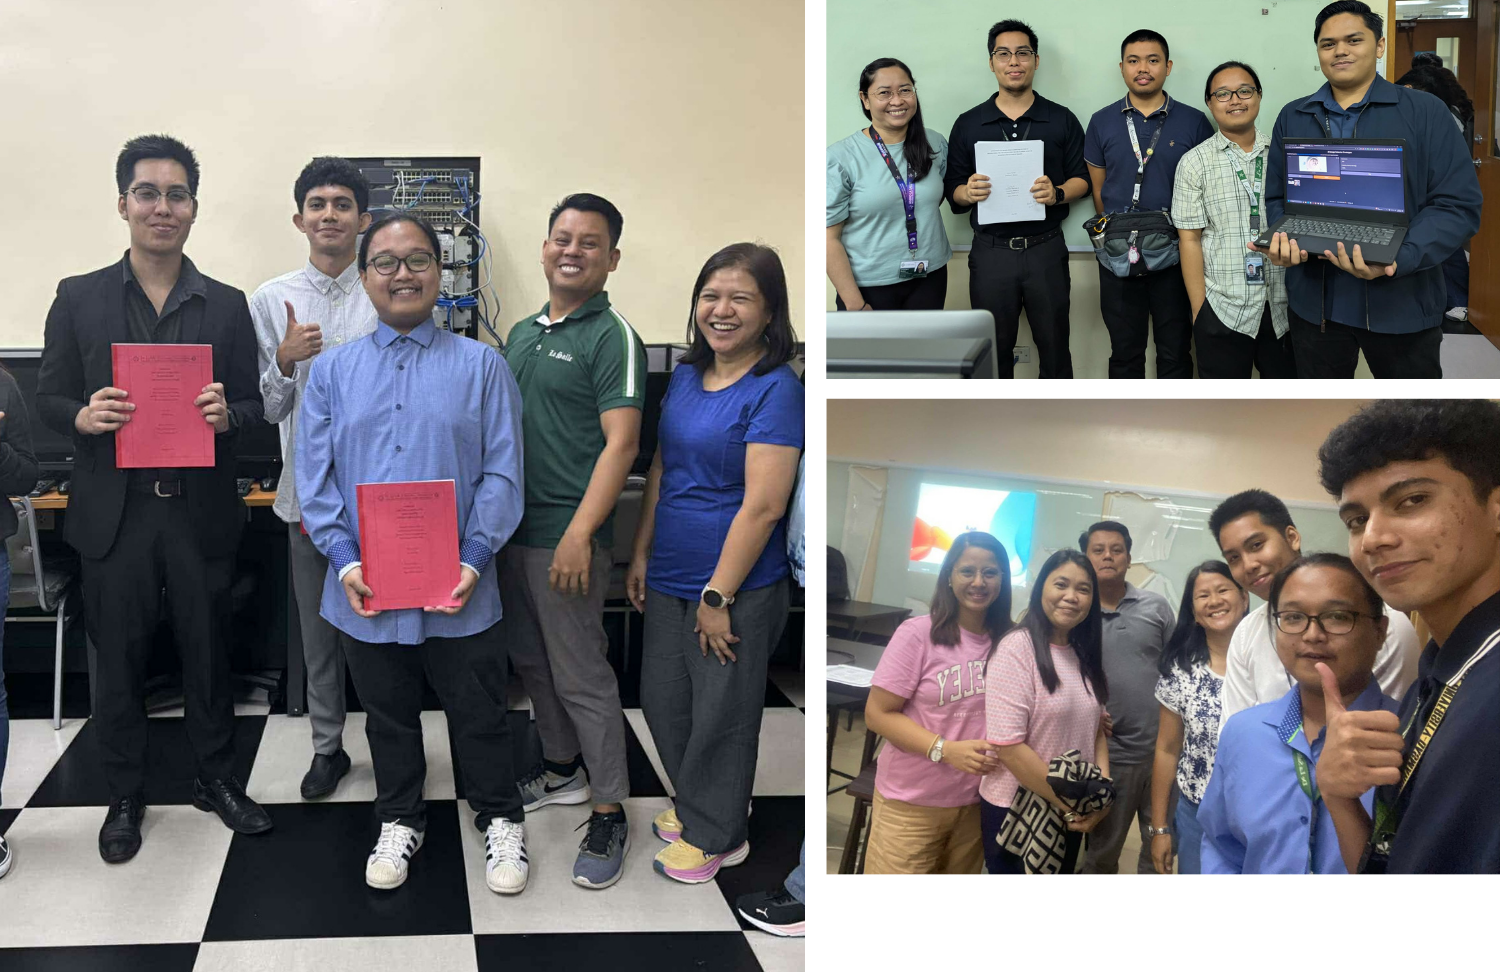
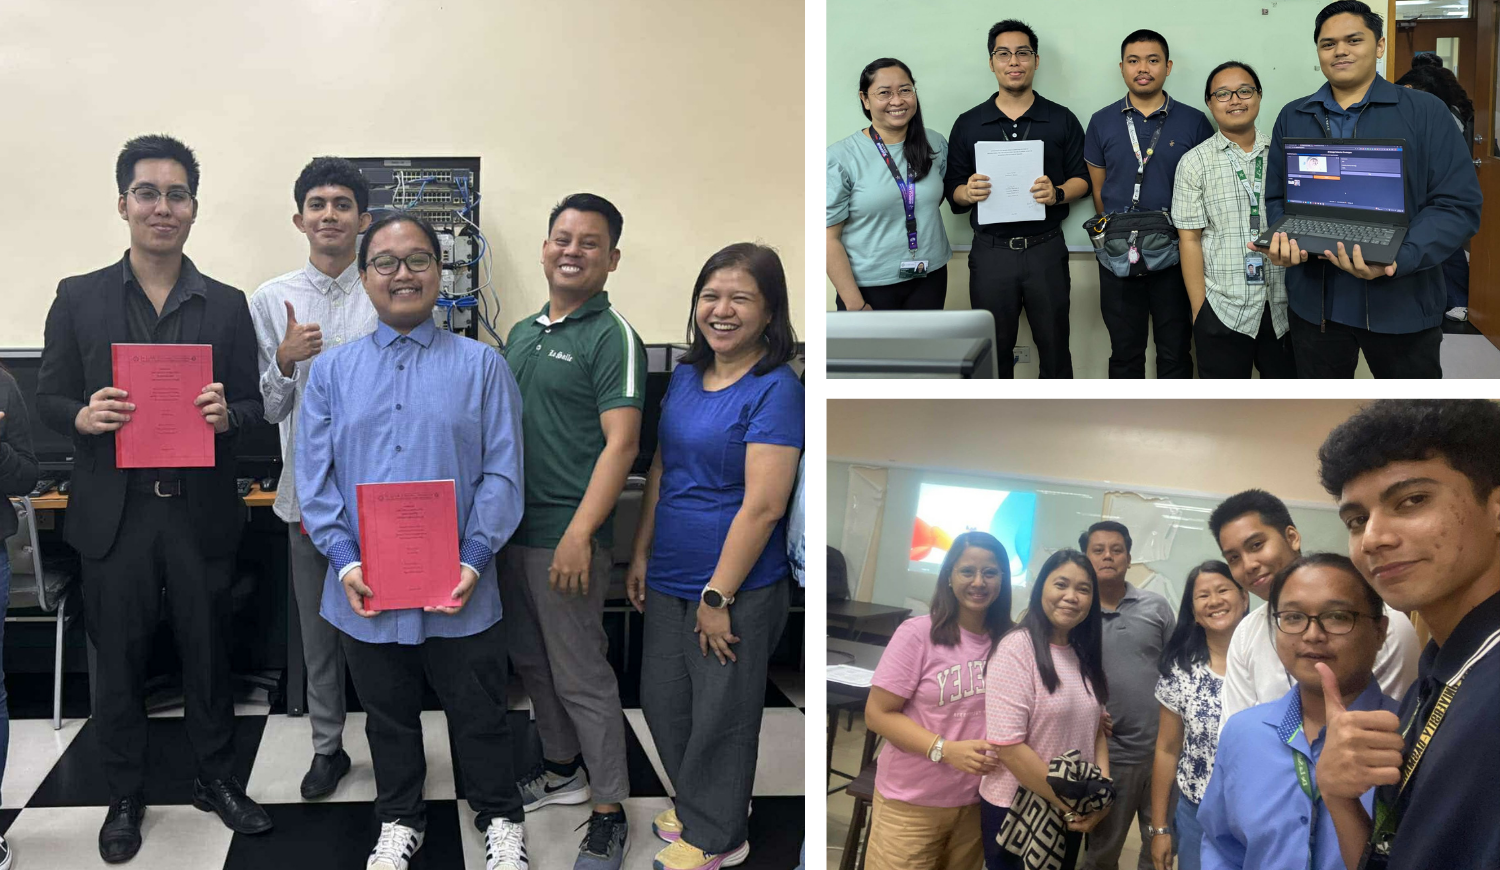
tweaks for laptop responsiveness

diff --git a/src/components/SidePanel/SidePanel.scss b/src/components/SidePanel/SidePanel.scss
@@ -53,7 +53,7 @@
   width: 100%;
   height: 570px;
   object-fit: cover;       
-  object-position: top;    
+  object-position: top;
   display: block;
   opacity: 0;
   transform: translateY(12px);
@@ -589,6 +589,18 @@
 }
 
 /* RESPONSIVENESS */
+
+/* Laptop */
+@media (max-width: 1500px) {
+  .side-panel-image {
+    object-position: 35% top;
+  }
+
+  .resume-button {
+    padding: 0.5rem 1rem;
+    font-size: 0.77rem;
+  }
+}
 
 /* Mobile */
 @media (max-width: 425px) {
